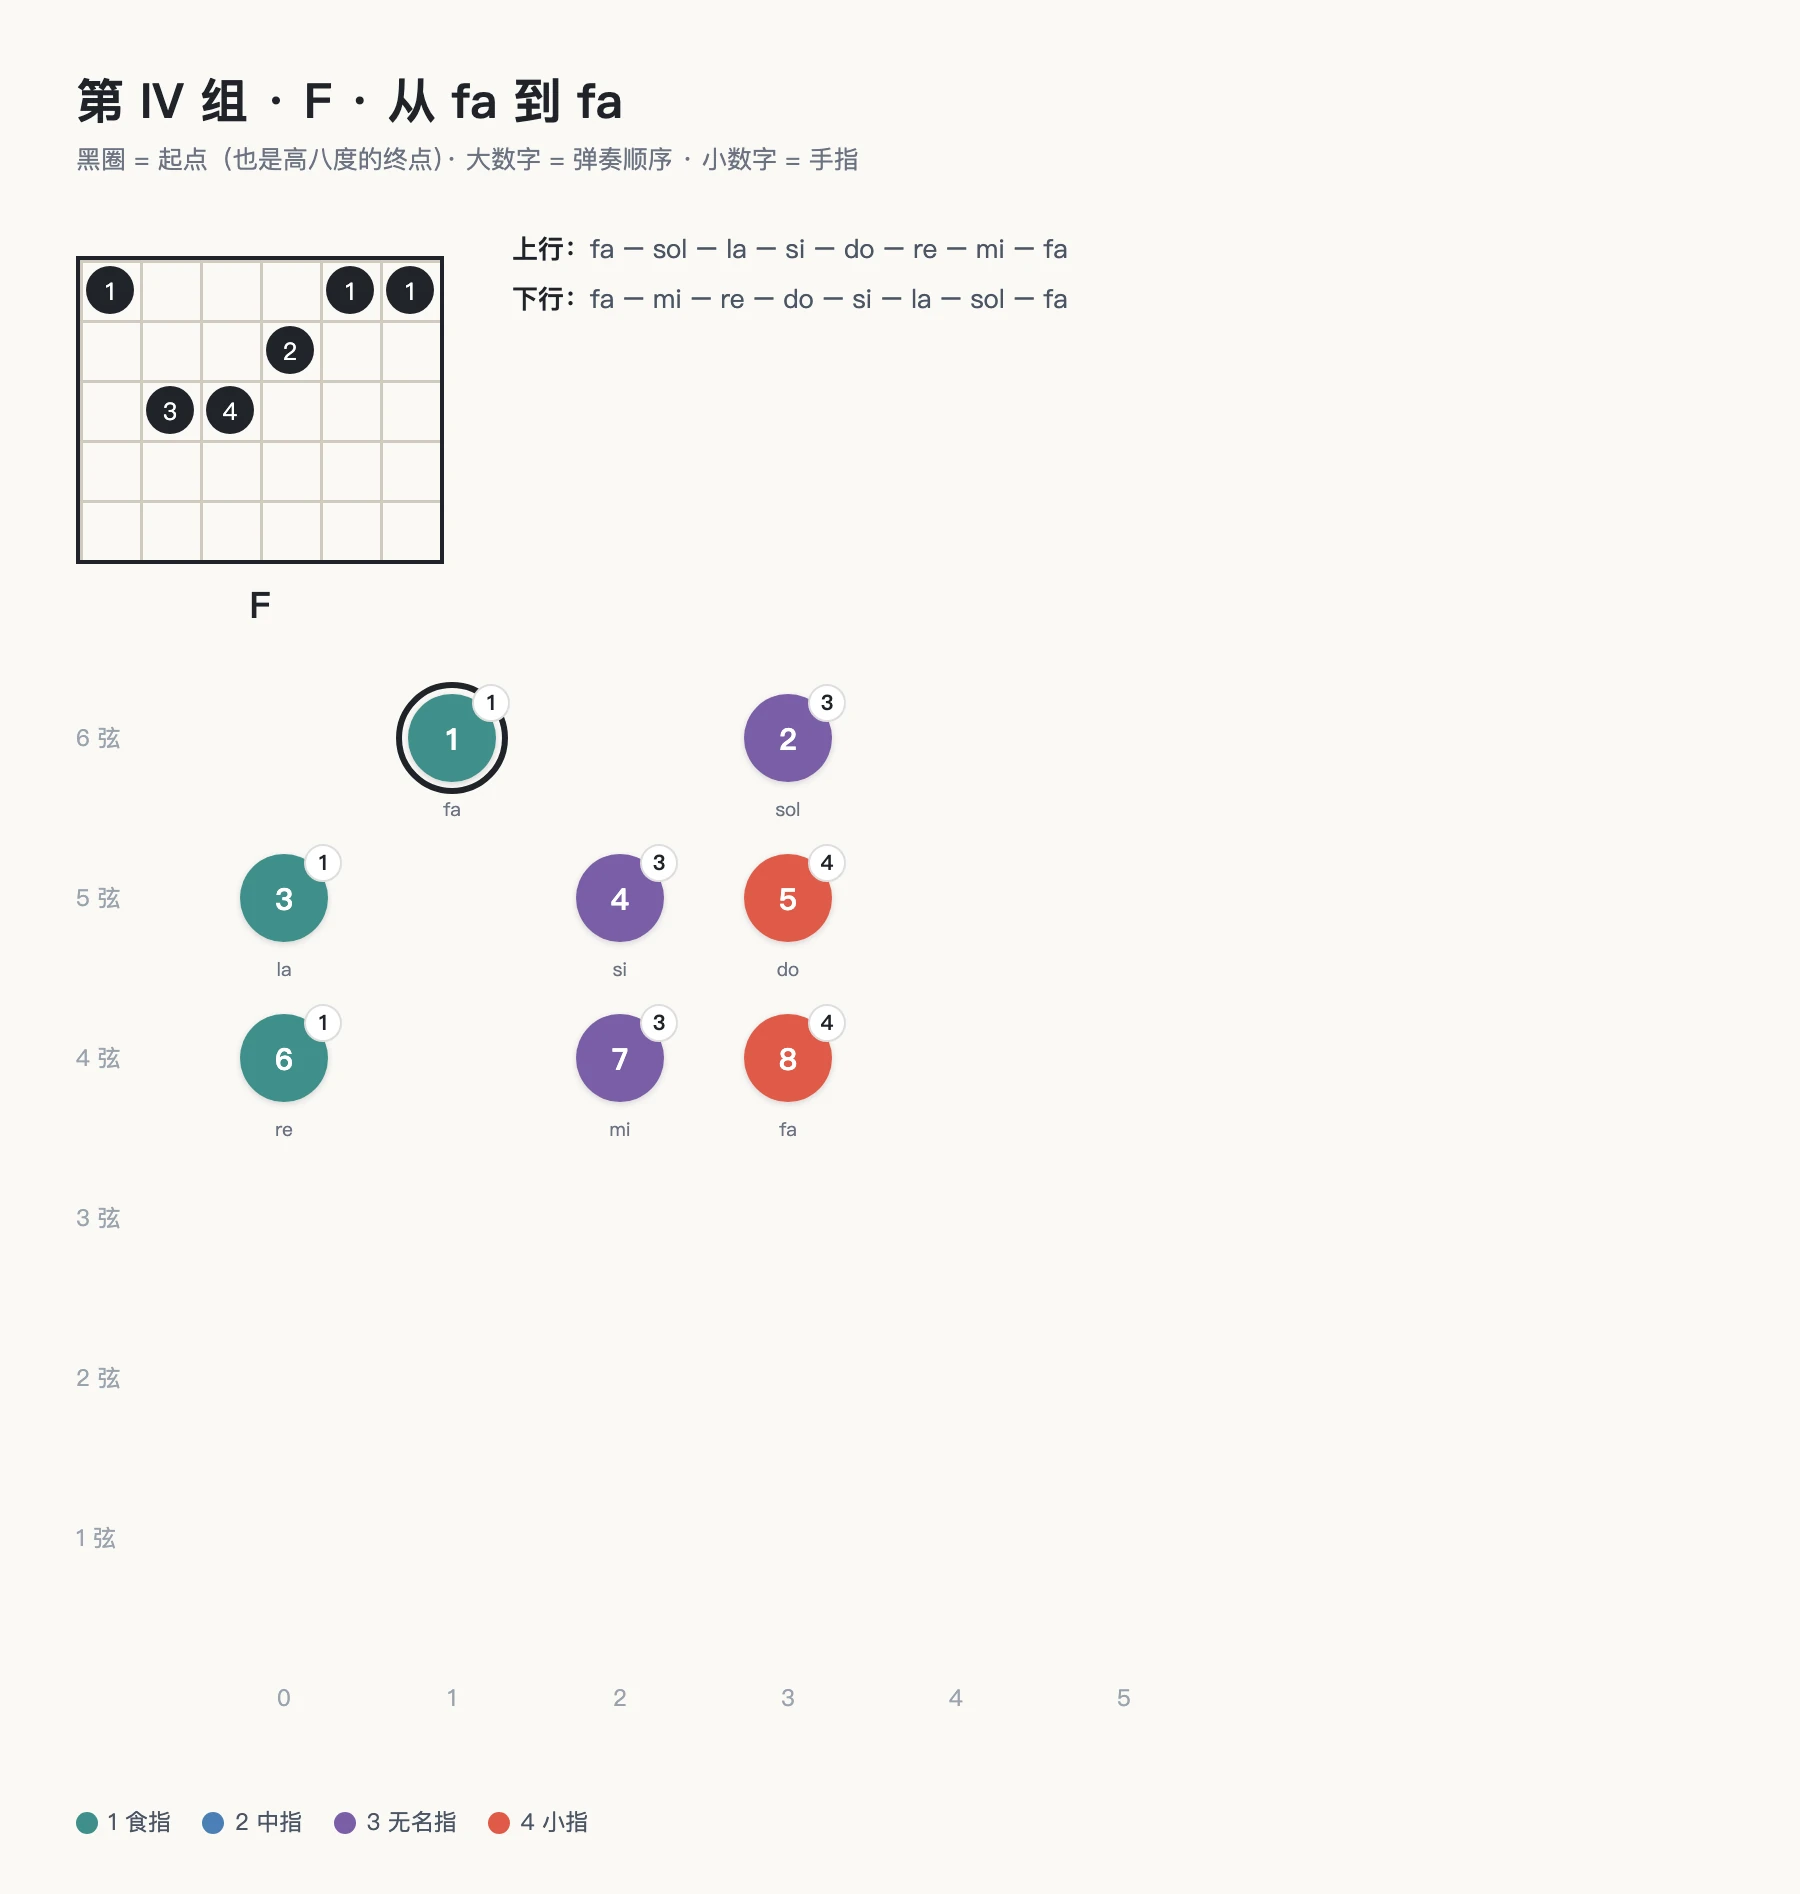
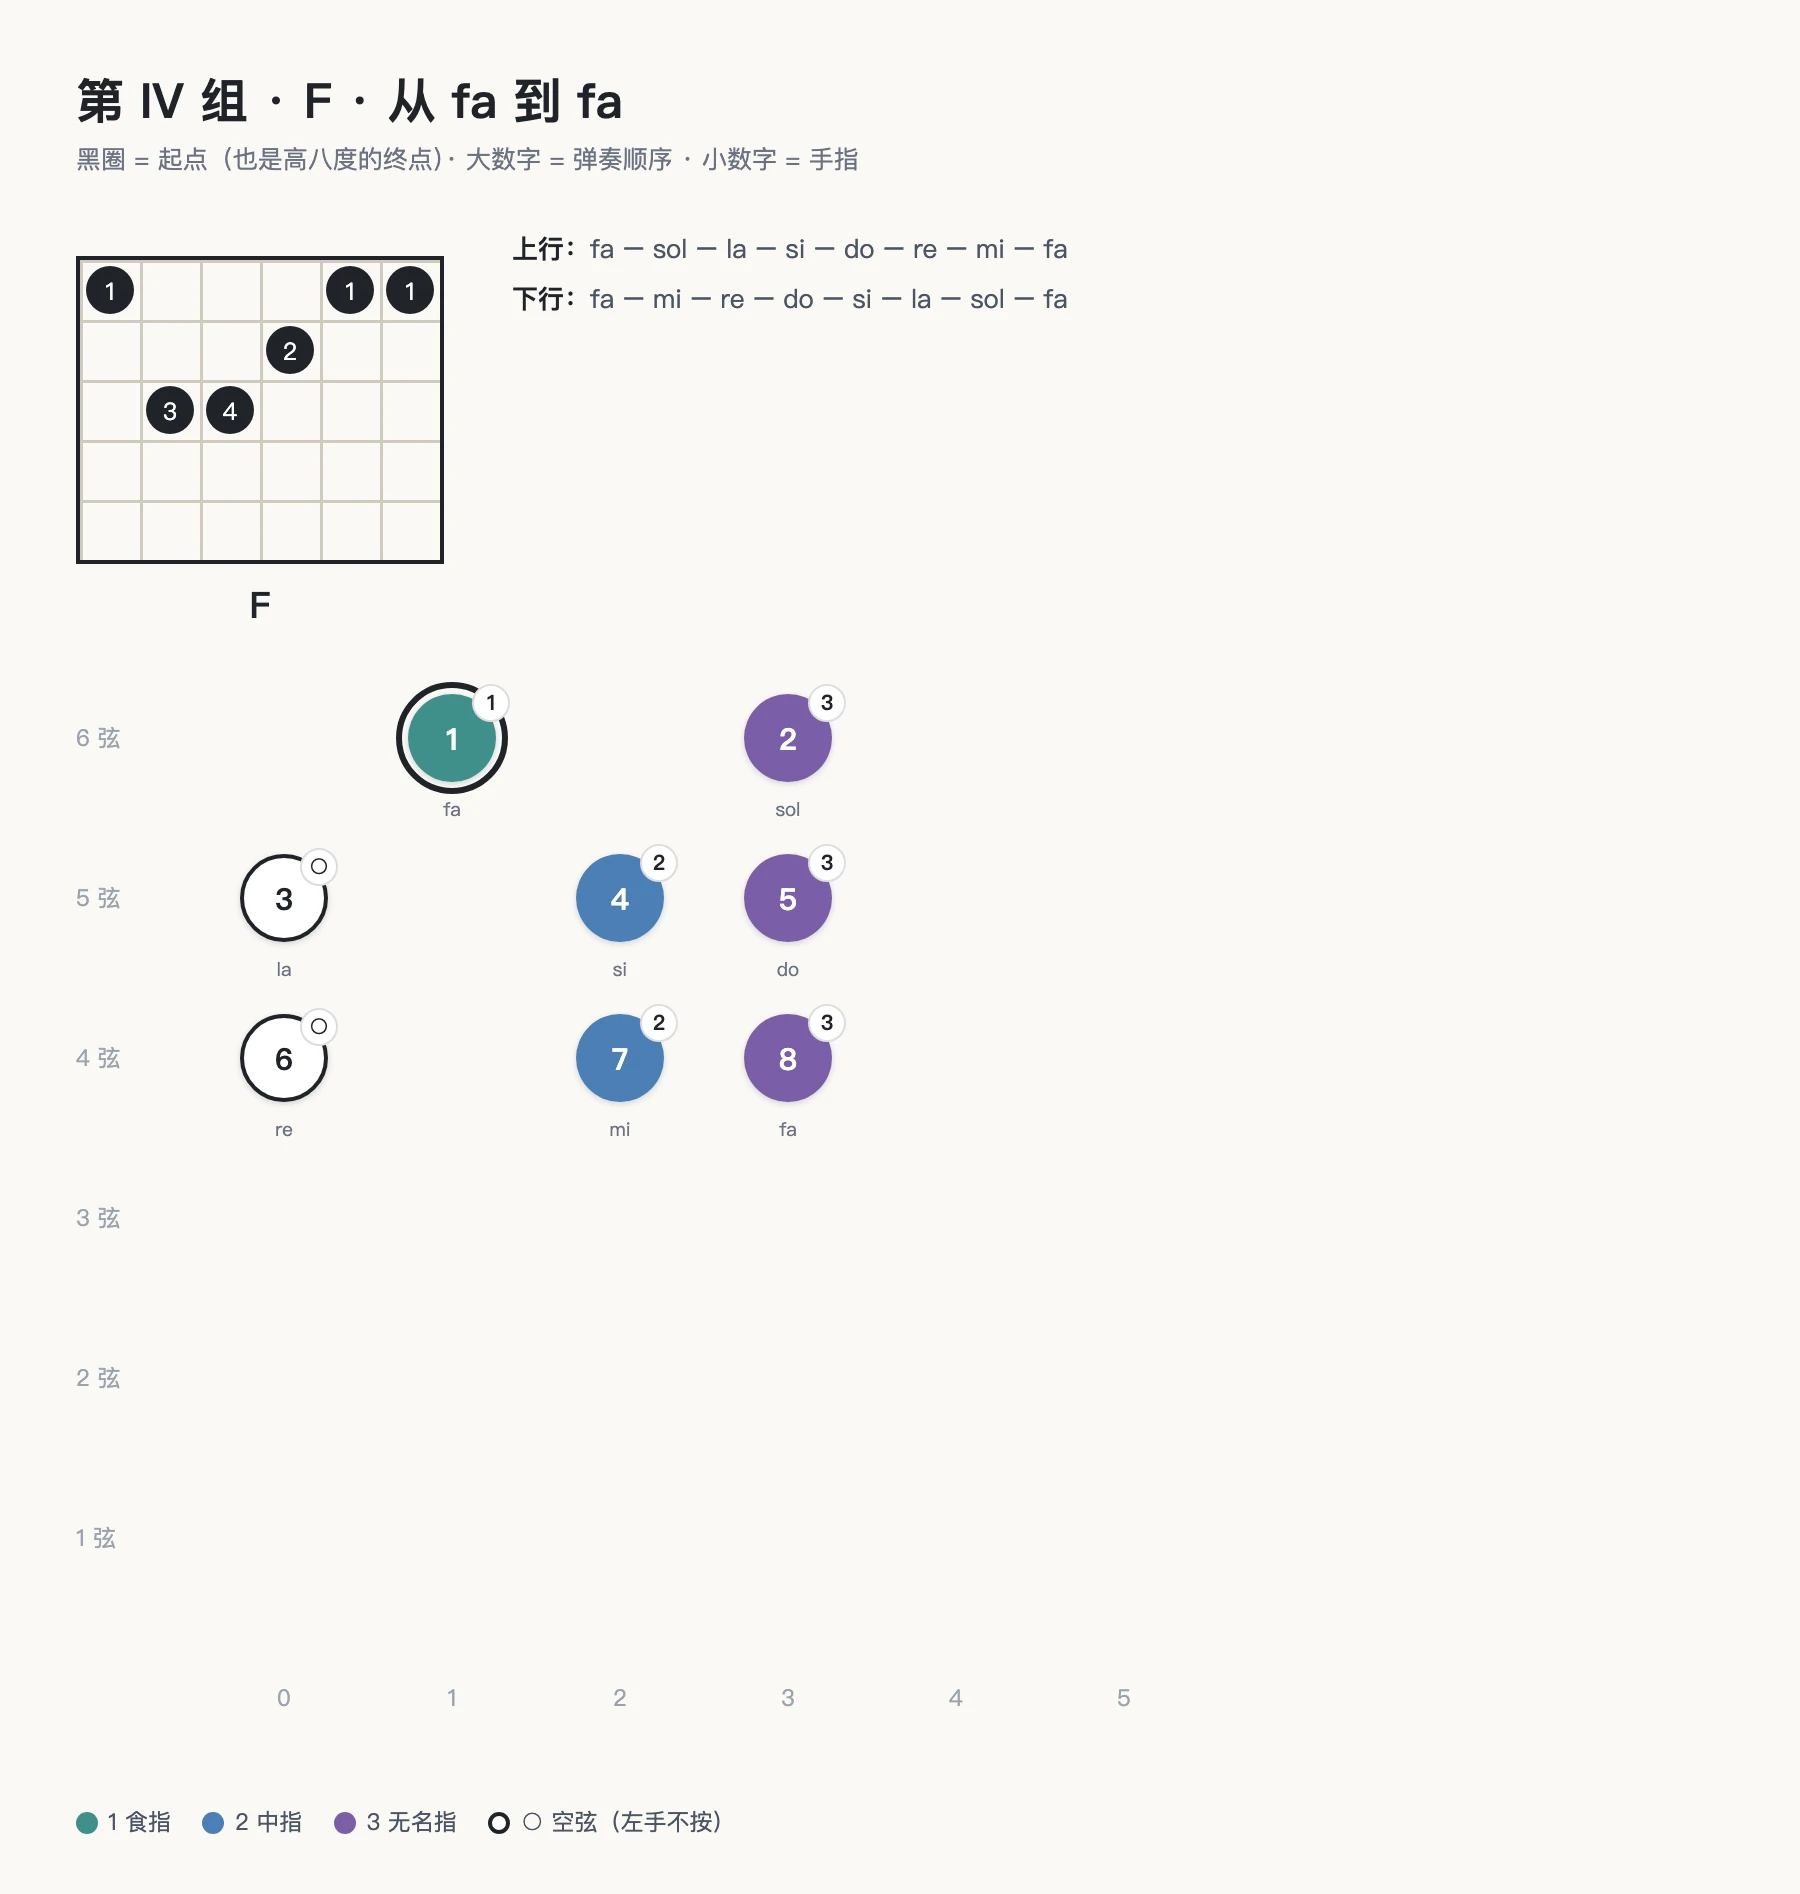
七组图修正：空弦用空心圆标注，不再标手指

diff --git a/content/music/seven-groups.md b/content/music/seven-groups.md
@@ -33,6 +33,12 @@ date: 2026-11-19
 
 每一张都标了：和弦按法（左上）、音阶位置（大数字是顺序，小数字是手指）、黑圈是本组根音。
 
+> [!tip] 两种圆点
+> **实心圆 + 数字**：左手要按，数字是手指（1 食指 / 2 中指 / 3 无名指）。
+> **空心圆 ○**：空弦，**左手不按**，右手直接拨，让它自然响。
+>
+> 0 品就是空弦，不是"用食指按 0 品"——这是初学者看指板图最容易误会的一处。
+
 ### I 组 · C 和弦
 
 ![[seven-groups/group1.webp|第 I 组 C 和弦 从 do 到 do]]
